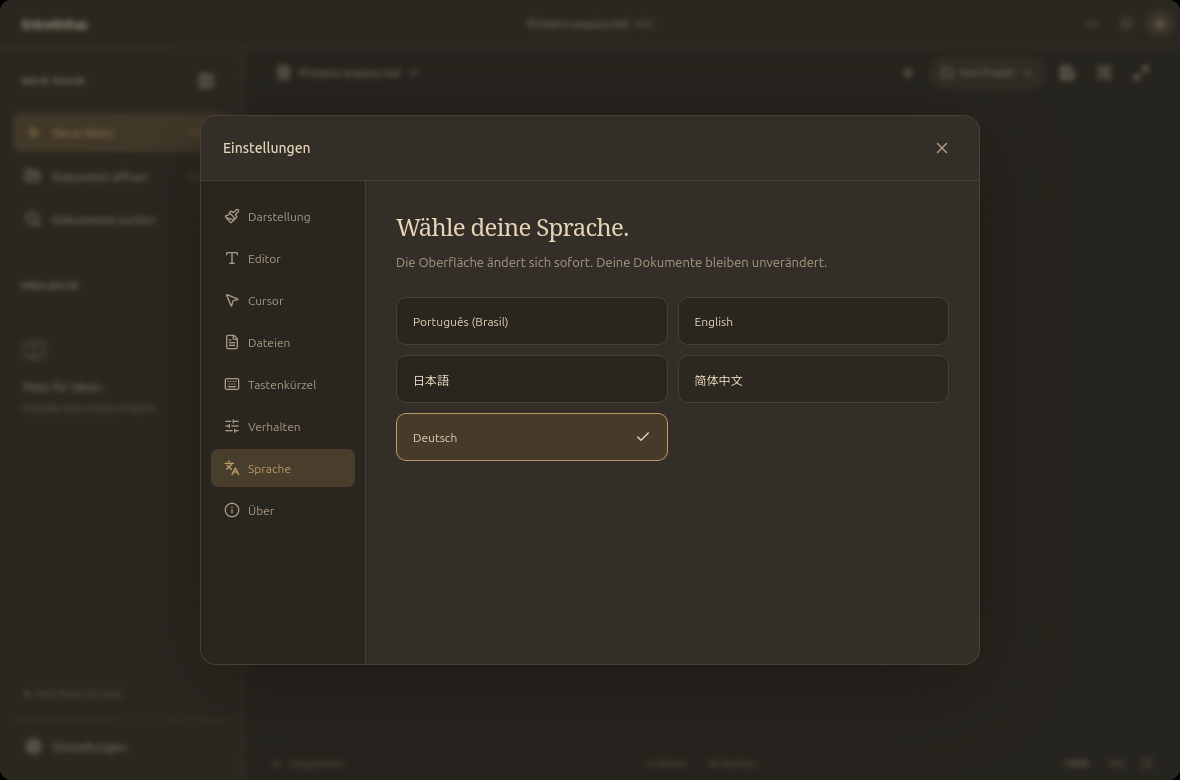
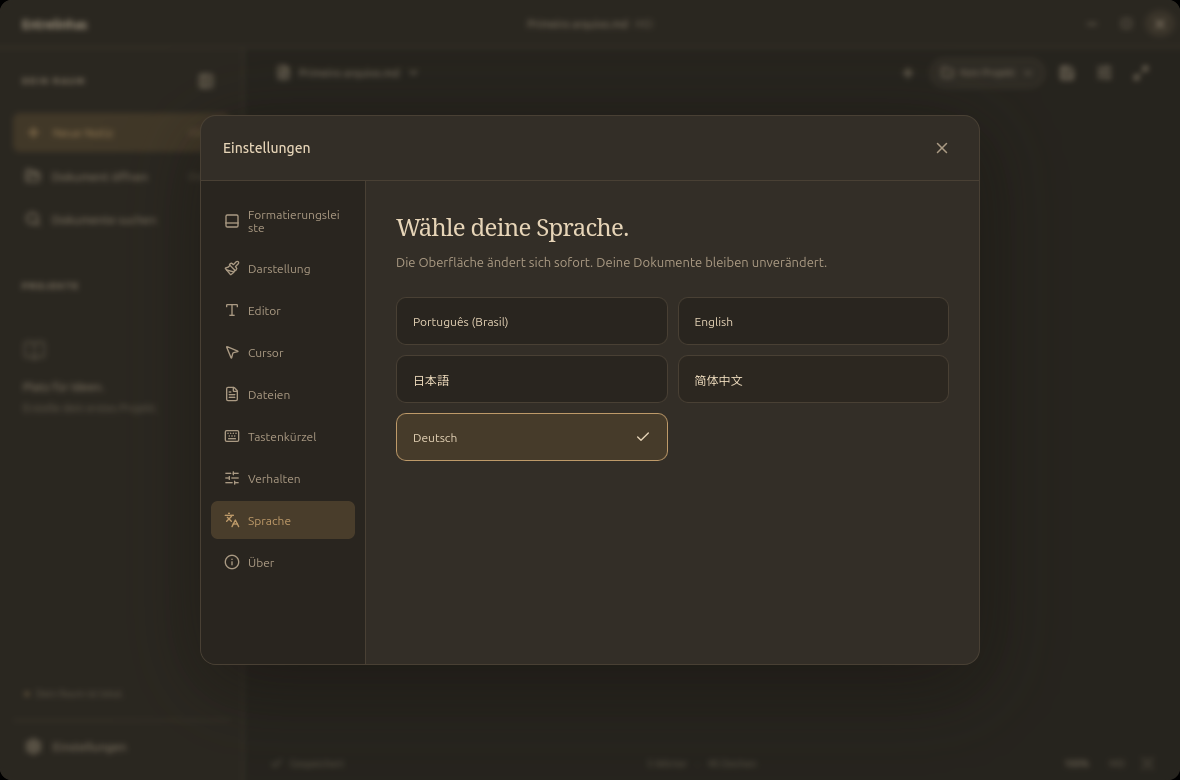
u73 - publicar Entrelinhas 2.2 estável e atualizar os canais

Changed region(s): [[0.1525, 0.4923, 0.3051, 0.7385], [0.1831, 0.2769, 0.2746, 0.4], [0.1831, 0.4308, 0.2441, 0.4615]]

diff --git a/README.md b/README.md
@@ -2,11 +2,31 @@
 
 **Um espaço tranquilo para escrever.**
 
-Entrelinhas é um editor **desktop de verdade**, feito com Tauri 2, React e TypeScript para Ubuntu e Windows. Ao começar a digitar, a interface desaparece. Restam o texto, o fundo e o cursor. Esc traz os controles de volta, sem deslocar o texto.
+Entrelinhas é um editor **desktop de verdade**, feito com Tauri 2, React e TypeScript para Ubuntu e Windows. Ao começar a digitar, o modo Zen recolhe a navegação e aproveita a altura da janela, mantendo a coluna de texto e as ferramentas de formatação. Esc alterna o modo Zen.
 
 ![Entrelinhas — Sépia Noturno](docs/screenshots/sepia.png)
 
-## Idiomas e atalhos (2.1 estável)
+## Comandos de escrita e modo Zen (2.2 estável)
+
+A [versão 2.2 estável](https://github.com/Davi-Mascarenhas/entrelinhas/releases/tag/v2.2.0) está disponível para Windows e Linux. Digite `/` no início de uma linha ou após um espaço para escolher uma lista de tarefas, tabela, lista com marcadores ou números, título, citação, código, separador ou texto comum. Continue digitando para filtrar, use as setas e Enter ou clique na opção. Esc fecha o menu e mantém o texto; desfazer restaura o comando.
+
+| Idioma | Lista de tarefas | Tabela |
+| --- | --- | --- |
+| Português | `/lista` | `/tabela` |
+| English | `/list` | `/table` |
+| 日本語 | `/リスト` | `/テーブル` |
+| 简体中文 | `/清单` ou `/列表` | `/表格` |
+| Deutsch | `/liste` | `/tabelle` |
+
+O menu acompanha o cursor durante a entrada automática no Zen. Não aparece dentro de links ou código e funciona offline.
+
+A paleta de cores abre junto ao botão e aplica a escolha imediatamente, preservando a seleção. Duplo clique no título permite editar o nome na própria barra: Enter confirma e Esc cancela. Mudar de documento cancela uma edição ainda não confirmada; salvar e fechar aguardam uma renomeação já confirmada.
+
+O modo Zen usa mais altura e suaviza o texto nas bordas superior e inferior. **Esc entra e sai quando há conteúdo**; menus e campos abertos recebem Esc primeiro. Em **Configurações → Barra de formatação**, escolha a posição inferior ou lateral e se deseja ocultar as ferramentas no Zen. Por padrão, elas continuam visíveis. Na lateral, ficam sempre do lado oposto aos projetos. As animações respeitam movimento reduzido.
+
+[Menu de comandos](docs/screenshots/slash-pt-BR.png) · [日本語](docs/screenshots/slash-ja.png) · [简体中文](docs/screenshots/slash-zh-CN.png) · [Paleta imediata](docs/screenshots/color-anchored.png) · [Zen com mais altura](docs/screenshots/zen-height.png) · [Formatação lateral](docs/screenshots/formatting-side-right.png).
+
+## Idiomas e atalhos
 
 A [versão 2.1 estável](https://github.com/Davi-Mascarenhas/entrelinhas/releases/tag/v2.1.0) está disponível para Windows e Linux e adiciona
 português brasileiro, inglês, japonês, chinês simplificado e alemão a toda a interface.
@@ -32,7 +52,7 @@ a captura. As dicas e os menus passam a exibir a combinação escolhida.
 
 - Inicialização normal em uma nota nova, vazia e mantida em memória. Ao abrir pelo explorador, recebe os documentos solicitados. Escrita sem o cabeçalho decorativo, começando mais acima.
 - Tamanho e maximização da janela lembrados ao reabrir. Duplo clique nas áreas livres dos dois lados da barra maximiza ou restaura. O arraste só começa ao mover o mouse pressionado.
-- Duplo clique no título abre a edição do nome: rascunhos ganham um nome sugerido; arquivos salvos são renomeados na mesma pasta, sem salvar as alterações do editor nem substituir outro arquivo.
+- Duplo clique no título permite editar o nome na própria barra: rascunhos ganham um nome sugerido; arquivos salvos são renomeados na mesma pasta, sem salvar as alterações do editor nem substituir outro arquivo.
 - **Nenhum salvamento automático, recuperação de rascunhos ou restauração de abas.**
 - Salvamento manual em arquivos Markdown e TXT comuns, em qualquer pasta. Abertura e salvamento pelo explorador do desktop via XDG Desktop Portal; no GNOME, utiliza o Nautilus. Os diálogos começam na pasta Documentos configurada no sistema; Salvar como mantém o caminho do arquivo aberto.
 - Integração com **Abrir com** para `.md`, `.markdown` e `.txt`. Novos pedidos chegam à janela já aberta, preservam rascunhos e ativam documentos existentes sem duplicar guias.
@@ -42,8 +62,8 @@ a captura. As dicas e os menus passam a exibir a combinação escolhida.
 - Modo Zen automático, alternância manual, acesso por Esc e aproximação das bordas.
 - Apresentação inicial com idioma, boas-vindas, tema e aplicativo padrão opcional no Linux; no Windows, o idioma vem do instalador e a apresentação tem três páginas. Temas Claro, Escuro e Sépia Noturno, com prévia imediata e respeito às preferências de instalações anteriores.
 - Coluna de escrita centralizada na janela inteira, com limite de largura e posição estável ao esconder os controles.
-- Seletores próprios para projeto, cor, fonte, formato, layout e formatação, acompanhando os três temas. Painéis preservam o fundo desfocado.
-- Formatação na parte inferior, com botões sem moldura, e dicas temáticas com nomes e atalhos ao passar o mouse ou navegar pelo teclado.
+- Seletores próprios para projeto, cor, fonte, formato, layout e formatação, acompanhando os três temas. A paleta de cores é um painel local; diálogos de configurações e projetos preservam o fundo desfocado.
+- Formatação na parte inferior ou na lateral, com botões sem moldura, e dicas temáticas com nomes e atalhos ao passar o mouse ou navegar pelo teclado.
 - Cursor em bloco, fino ou invisível; fonte, tamanho, largura, zoom e entrelinha configuráveis.
 - Navegação à esquerda ou à direita, redimensionável; abas superiores ou laterais. Em janelas estreitas, as abas voltam ao topo para manter uma coluna confortável.
 - Busca e substituição no documento; busca por nome e conteúdo nos arquivos salvos registrados.
@@ -62,7 +82,7 @@ As gravações usam arquivo temporário na pasta de destino, sincronização e r
 
 ## Editor e formatos
 
-O editor usa TipTap/ProseMirror, com desfazer/refazer, composição de texto, Unicode e quebra automática de linhas. Os botões de formatação ficam na parte inferior, sem uma moldura ao redor. O botão de ajustes no documento revela as ferramentas completas; selecionar texto revela os controles essenciais no mesmo lugar.
+O editor usa TipTap/ProseMirror, com desfazer/refazer, composição de texto, Unicode e quebra automática de linhas. Os botões de formatação ficam na parte inferior ou na lateral oposta aos projetos, sem uma moldura ao redor. O botão de ajustes no documento revela as ferramentas completas; selecionar texto revela os controles essenciais no mesmo lugar.
 
 Suporta negrito, itálico, sublinhado, tachado, títulos, listas, checklists interativas, citações, código, links, separadores, alinhamento, destaque, cores, tamanho de texto, imagens e tabelas com edição de linhas e colunas.
 
@@ -96,7 +116,7 @@ O cursor em bloco usa as coordenadas reais da seleção do ProseMirror e a largu
 
 ## Instalação no Windows
 
-O instalador **Entrelinhas 2.1.0 para Windows x64** usa NSIS, com logo, artes em sépia e textos em português brasileiro. Está disponível na [release estável](https://github.com/Davi-Mascarenhas/entrelinhas/releases/tag/v2.1.0), junto com o SHA-256 e o relatório dos testes. Windows e Linux compartilham a versão estável 2.1.0. Na versão 2.1, o primeiro diálogo oferece os cinco idiomas e o aplicativo usa essa escolha na primeira abertura.
+O instalador **Entrelinhas 2.2.0 para Windows x64** usa NSIS, com logo, artes em sépia e cinco idiomas. Está disponível na [release estável](https://github.com/Davi-Mascarenhas/entrelinhas/releases/tag/v2.2.0), junto com o SHA-256 e o relatório dos testes. Windows e Linux compartilham a versão estável 2.2.0. Na versão 2.1, o primeiro diálogo oferece os cinco idiomas e o aplicativo usa essa escolha na primeira abertura.
 
 - Instalação por usuário, sem exigir administrador para instalar o aplicativo; pasta de destino selecionável, atalho no menu Iniciar e opção de abrir ao concluir.
 - O instalador verifica o WebView2 e baixa o bootstrapper oficial quando necessário. Nesse caso, a primeira instalação precisa de internet.
@@ -108,7 +128,7 @@ O instalador Windows ainda não tem assinatura Authenticode. As atualizações p
 
 [Boas-vindas do instalador](docs/screenshots/windows-welcome.png) · [Escolha da pasta](docs/screenshots/windows-folder.png). As capturas são do wizard real em Windows Server 2025.
 
-Versão 2.1: [Idioma do instalador](docs/screenshots/windows-language.png) · [Chinês simplificado](docs/screenshots/windows-welcome-zh-CN.png) · [Alemão](docs/screenshots/windows-welcome-de.png) · [Aplicativo em japonês](docs/screenshots/windows-language-ja.png). Foram aprovadas **23 verificações Windows**, incluindo as cinco escolhas do instalador, a primeira abertura em cada idioma e uma atualização assinada completa com reinício. [Execução validada](https://github.com/Davi-Mascarenhas/entrelinhas/actions/runs/44972082564).
+[Idioma do instalador](docs/screenshots/windows-language.png) · [Chinês simplificado](docs/screenshots/windows-welcome-zh-CN.png) · [Alemão](docs/screenshots/windows-welcome-de.png) · [Aplicativo em japonês](docs/screenshots/windows-language-ja.png). Foram aprovadas **27 verificações Windows**, incluindo as cinco escolhas do instalador, a primeira abertura em cada idioma, comandos de escrita, edição direta, modo Zen e uma atualização assinada completa com reinício. [Execução validada](https://github.com/Davi-Mascarenhas/entrelinhas/actions/runs/45023383509).
 
 Para compilar no Windows, instale Node.js 24, Rust estável, as ferramentas C++ do Visual Studio e o WebView2. Depois:
 
@@ -125,7 +145,7 @@ As artes vetoriais ficam em `src-tauri/windows/branding/`. Para regenerar os BMP
 
 **Configurações → Sobre → Procurar atualização** pede autorização para consultar o GitHub. Nenhum documento é enviado. Uma versão encontrada aparece antes do download; você escolhe quando continuar. O Windows resolve alterações não salvas antes de reiniciar; no Linux, o pacote `.deb` é salvo no destino escolhido, sem instalação automática.
 
-A versão 1.2.0-rc.1 precisa de instalação manual da nova prévia uma vez para receber esse recurso. [Funcionamento, chaves e publicação dos manifestos](docs/updates.md).
+A versão 1.2.0-rc.1 precisa de instalação manual de uma versão atual uma vez para receber esse recurso. [Funcionamento, chaves e publicação dos manifestos](docs/updates.md).
 
 [Painel de atualizações](docs/screenshots/updates.png) · [Autorização de acesso à internet](docs/screenshots/update-permission.png).
 
@@ -137,12 +157,12 @@ O projeto foi compilado e verificado no **Ubuntu 26.10, x86_64, GNOME/Wayland**.
 
 ### Pacote Debian
 
-[Baixe o instalador e os checksums da versão 2.0.0](https://github.com/Davi-Mascarenhas/entrelinhas/releases/tag/v2.1.0).
+[Baixe o instalador e os checksums da versão 2.2.0](https://github.com/Davi-Mascarenhas/entrelinhas/releases/tag/v2.2.0).
 
 Para instalar um pacote compilado localmente:
 
 ```bash
-sudo apt install ./src-tauri/target/release/bundle/deb/Entrelinhas_2.0.0_amd64.deb
+sudo apt install ./src-tauri/target/release/bundle/deb/Entrelinhas_2.2.0_amd64.deb
 ```
 
 O aplicativo aparece no menu como **Entrelinhas**, com ícone próprio. O pacote depende do WebKitGTK 4.1 e GTK 3 do sistema. Uma compilação feita no Ubuntu 26.10 não garante compatibilidade binária com versões anteriores do Ubuntu; para elas, compile no sistema de destino.
@@ -232,9 +252,10 @@ python3 scripts/test-desktop.py --binary src-tauri/target/release/entrelinhas
 
 Os números abaixo descrevem a suíte Linux. A validação Windows tem relatório próprio nos artefatos da rotina Windows e na release estável.
 
-- **109 testes TypeScript:** notas, abas, descarte, preferências, atalhos, Markdown, formatação, TXT, Unicode, busca, imagens, gravação explícita, conflitos, espera de gravações, centralização com diferentes painéis, seletores próprios por mouse e teclado, dicas, guias sob demanda, abertura sem perder texto, apresentação em quatro páginas no Linux e três no Windows, recusa do padrão, tratamento de falhas de associação, migração de preferências, fila de arquivos externos, edição de títulos, nome sugerido ao salvar e gestos da barra superior com exclusão dos botões e seus ícones, cliques sem arraste e cancelamento de gestos pendentes. Inclui catálogos completos dos cinco idiomas, preservação de parâmetros, migração e captura de atalhos com validação de conflitos.
+- **109 testes TypeScript:** notas, abas, descarte, preferências, atalhos, Markdown, formatação, TXT, Unicode, busca, imagens, gravação explícita, conflitos, espera de gravações, centralização com diferentes painéis, seletores próprios por mouse e teclado, dicas, guias sob demanda, abertura sem perder texto, apresentação em quatro páginas no Linux e três no Windows, recusa do padrão, tratamento de falhas de associação, migração de preferências, fila de arquivos externos, edição de títulos, nome sugerido ao salvar e gestos da barra superior com exclusão dos botões e seus ícones, cliques sem arraste e cancelamento de gestos pendentes. Inclui catálogos completos dos cinco idiomas, preservação de parâmetros, migração e captura de atalhos com validação de conflitos, comandos de escrita com desfazer e preservação dos blocos ao salvar/reabrir, edição direta com falhas de renomeação e espera das operações nativas.
 - **19 testes Rust no Linux:** gravação atômica, conflitos, UTF-8, nomes internacionais, imagens relativas, arquivos somente leitura, recursos inválidos, projetos em Downloads, exclusão sem apagar documentos, localização, busca, renomeação sem sobrescrever, preservação de imagens e projeto, reversão em caso de falha no registro, argumentos do explorador e associações MIME em perfis isolados para as instalações local e Debian, além do mapeamento dos idiomas do instalador.
-- **41 verificações desktop:** inicialização, ocultação sem deslocamento, Esc, descarte após reiniciar, Ctrl+S com seletor GNOME, associação externa, abas, busca/substituição, colagem de imagens, temas, cursores, persistência, layout, F11, conflitos, busca global, confirmação opcional, TXT, paleta de cores nos três temas, primeira abertura, centralização ao redimensionar, formatação inferior sem moldura, menus de tabela, dicas nos três temas, tamanho da janela após reiniciar, duplo clique nas áreas livres dos dois lados da barra e entre os controles, arraste apenas ao mover o mouse pressionado, títulos, espaçamento dos campos, abertura/salvamento pelo Nautilus, registro em Abrir com, abertura pelo sistema com a janela aberta ou fechada, aceitação e recusa do padrão, apresentação na menor janela e atalhos na lateral apenas para arquivos vinculados a projetos. Inclui troca e persistência dos cinco idiomas, fontes locais CJK, preservação do documento/histórico e captura real dos atalhos.
+- **41 verificações desktop:** inicialização, ocultação sem deslocamento, Esc, descarte após reiniciar, Ctrl+S com seletor GNOME, associação externa, abas, busca/substituição, colagem de imagens, temas, cursores, persistência, layout, F11, conflitos, busca global, confirmação opcional, TXT, paleta de cores nos três temas, primeira abertura, centralização ao redimensionar, formatação inferior sem moldura, menus de tabela, dicas nos três temas, tamanho da janela após reiniciar, duplo clique nas áreas livres dos dois lados da barra e entre os controles, arraste apenas ao mover o mouse pressionado, títulos, espaçamento dos campos, abertura/salvamento pelo Nautilus, registro em Abrir com, abertura pelo sistema com a janela aberta ou fechada, aceitação e recusa do padrão, apresentação na menor janela e atalhos na lateral apenas para arquivos vinculados a projetos. Inclui troca e persistência dos cinco idiomas, fontes locais CJK, preservação do documento/histórico, captura real dos atalhos, comandos com teclado/mouse nos cinco idiomas, paleta imediata, edição na barra e Zen com ferramentas nas duas laterais.
+- **8 verificações de atualização Linux:** autorização manual, ausência de consultas automáticas, rejeição de bytes/chaves/versão adulterados, cancelamento sem download e salvamento de pacote verificado.
 - O roteiro desktop também passou no **executável otimizado de produção, sem depender do servidor Vite**.
 - Documento de **280 mil caracteres** carregado e editado no roteiro desktop. O tempo medido inclui definir o conteúdo e inserir texto; não representa um benchmark de latência por tecla.
 

diff --git a/docs/windows-validation.md b/docs/windows-validation.md
@@ -1,6 +1,6 @@
 # Validação do Entrelinhas no Windows
 
-A prévia inicial é x64 e não assinada. O workflow `Windows installer` executa testes em Windows Server 2025 com WebView2. Ele publica o instalador somente como artefato validado quando todo o job passa; logs, capturas do wizard e das telas do app ficam em `windows-test-evidence`. O SHA do commit e os checksums acompanham o artefato.
+O instalador é x64 e ainda não possui assinatura Authenticode. Os pacotes de atualização possuem assinatura criptográfica própria. O workflow `Windows installer` executa testes em Windows Server 2025 com WebView2. Ele publica o instalador somente como artefato validado quando todo o job passa; logs, capturas do wizard e das telas do app ficam em `windows-test-evidence`. O SHA do commit e os checksums acompanham o artefato.
 
 ## Teste automatizado
 
@@ -8,17 +8,17 @@ O wrapper da CI cria uma conta temporária comum, executa os testes nessa conta 
 
 O roteiro abre o wizard, captura boas-vindas e seleção de pasta e confirma o cancelamento. Em seguida instala silenciosamente em uma pasta com espaços e acentos e verifica o registro de “Abrir com”, o atalho e a preservação dos padrões anteriores.
 
-O aplicativo instalado é operado pelo Microsoft Edge WebDriver na versão correspondente ao WebView2. São verificados: primeira abertura, Markdown/TXT, UTF-8 e nomes internacionais, salvamento manual, renomeação, rascunhos preservados na janela e descartados ao fechar, instância única, guias sem duplicação, temas, preferências e duplo clique na barra. O roteiro também testa reinstalação e desinstalação, preservando biblioteca e documentos. A tela de padrões do Windows não é automatizada para forçar uma associação.
+O aplicativo instalado é operado pelo Microsoft Edge WebDriver na versão correspondente ao WebView2. São verificados: primeira abertura, Markdown/TXT, UTF-8 e nomes internacionais, salvamento manual, renomeação, rascunhos preservados na janela e descartados ao fechar, instância única, guias sem duplicação, temas, preferências e duplo clique na barra. Também verifica os cinco idiomas, créditos, personalização de atalhos, comandos com barra, paleta de cores imediata, edição do título na barra, Esc e barra de formatação no modo Zen nas duas laterais. O roteiro também testa reinstalação e desinstalação, preservando biblioteca e documentos. A tela de padrões do Windows não é automatizada para forçar uma associação.
 
 ## Aprovação manual em Windows 11 x64
 
-Antes de promover a prévia a versão estável, registrar edição/build do Windows, versão do WebView2, versão do app e SHA-256 do instalador e verificar:
+Para a conferência manual em uma máquina Windows 11, registrar edição/build do Windows, versão do WebView2, versão do app e SHA-256 do instalador e verificar:
 
-- [ ] Instalar por usuário sem elevação do aplicativo; conferir wizard em português, logo e artes em escala de 100%, 150% e 200%.
+- [ ] Instalar por usuário sem elevação do aplicativo; conferir wizard nos cinco idiomas, logo e artes em escala de 100%, 150% e 200%.
 - [ ] Cancelar antes de instalar e confirmar que o aplicativo não foi registrado.
 - [ ] Testar instalação com WebView2 presente e em máquina limpa sem WebView2, com internet.
 - [ ] Abrir o aplicativo pelo menu Iniciar e pelo explorador sem surgir console; confirmar que não depende de um terminal aberto. Escolher cada tema e recusar a alteração do padrão.
-- [ ] Em Sobre, recusar e autorizar a consulta. Conferir que não consulta automaticamente nem baixa antes do clique. Testar atualização da nova prévia para outra versão assinada de teste, salvamento/cancelamento dos rascunhos e preservação de projetos/preferências.
+- [ ] Em Sobre, recusar e autorizar a consulta. Conferir que não consulta automaticamente nem baixa antes do clique. Testar atualização da versão instalada para outra versão assinada de teste, salvamento/cancelamento dos rascunhos e preservação de projetos/preferências.
 - [ ] Conferir o Entrelinhas em “Abrir com” para MD, Markdown e TXT; abrir arquivos com espaços, acentos e caracteres japoneses com o app aberto e fechado.
 - [ ] Usar “Abrir configurações do Windows”, selecionar os formatos na tela do sistema e voltar ao app; conferir que o status só indica padrão após a escolha.
 - [ ] Abrir/salvar pelo explorador, salvar novamente, salvar como, renomear sem substituir outro arquivo, inserir imagem e reabrir Markdown com sua pasta de recursos.
@@ -26,6 +26,6 @@ Antes de promover a prévia a versão estável, registrar edição/build do Wind
 - [ ] Atualizar/reinstalar com projetos e preferências existentes; confirmar que documentos e padrões foram preservados.
 - [ ] Desinstalar sem apagar dados; confirmar remoção de atalhos/registro e preservação da biblioteca e dos arquivos pessoais, inclusive um arquivo salvo na pasta de instalação.
 
-Assinatura Authenticode e testes com políticas empresariais ficam para a distribuição estável. Não adicionar uma exceção permanente de segurança para executar testes.
+A publicação estável segue a validação automatizada dos pacotes finais. Uma prévia só é necessária quando existe uma validação específica que dependa do usuário. Assinatura Authenticode depende da aprovação e configuração de um provedor; veja a [política de assinatura](code-signing-policy.md). Não adicionar uma exceção permanente de segurança para executar testes.
 
 A suíte também inspeciona o subsistema gráfico do PE e confirma que o processo não possui console. Dois instaladores exclusivos de teste validam a atualização real e o reinício; pacotes adulterados, chave desconhecida e versão adulterada são rejeitados. Os builds de teste nunca são publicados.

diff --git a/docs/updates.md b/docs/updates.md
@@ -20,14 +20,16 @@ O Windows gera `.sig` no build. Para o `.deb`, usar `tauri signer sign --app-ver
 
 ## Publicação
 
+A partir da versão 2.1, alterações validadas são publicadas como estáveis. Prévias são reservadas para uma validação específica que dependa do usuário.
+
 1. Compilar, testar e verificar os pacotes finais. Confirmar que builds publicados não habilitam a feature `updater-test` nem transporte inseguro.
 2. Publicar a release e os pacotes `.exe` / `.deb`, suas `.sig`, SHA256SUMS e relatórios. Conferir os downloads e versões.
 3. Atualizar os manifestos somente após os arquivos públicos estarem disponíveis. O gerador de manifestos deve conferir hashes, assinaturas e versão; publicar o commit incremental e verificar o endpoint remoto.
 4. Para uma prévia, atualizar apenas `preview.json`. Para uma estável, atualizar ambos; manter as entradas completas por plataforma.
 
-O gerador está em `scripts/prepare-update-manifest.py` e requer as dependências de `scripts/requirements-release.txt`. Exemplo após publicar os artefatos: `python3 scripts/prepare-update-manifest.py --version 1.2.0-rc.2 --assets artifacts/release-1.2.0-rc.2 --channel preview --notes "Atualizações manuais e correções no Windows."`. Ele verifica as assinaturas Ed25519/Minisign, a versão assinada e os hashes publicados pelo GitHub antes de escrever o manifesto.
+O gerador está em `scripts/prepare-update-manifest.py` e requer as dependências de `scripts/requirements-release.txt`. Exemplo após publicar os artefatos: `python3 scripts/prepare-update-manifest.py --version 2.2.0 --assets artifacts/release-2.2.0 --channel stable --notes "Comandos de escrita, edição direta e modo Zen."`. Ele verifica as assinaturas Ed25519/Minisign, a versão assinada e os hashes publicados pelo GitHub antes de escrever o manifesto.
 
-O manifesto estável inicial referencia somente o pacote Linux 1.1.2 já publicado, sem alterar os bytes ou a release existente. O Windows ainda não tem uma versão estável. A próxima promoção conjunta preencherá ambas as plataformas.
+Os dois canais apontam para a versão estável 2.2.0 para Windows e Linux. Isso permite que instalações de prévias anteriores também encontrem a versão estável, mediante consulta manual autorizada.
 
 ## Testes
 
